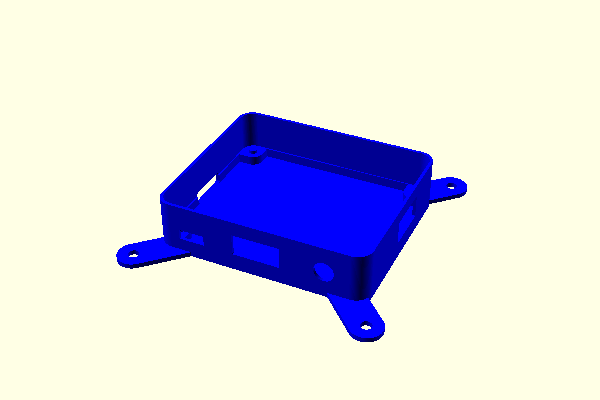
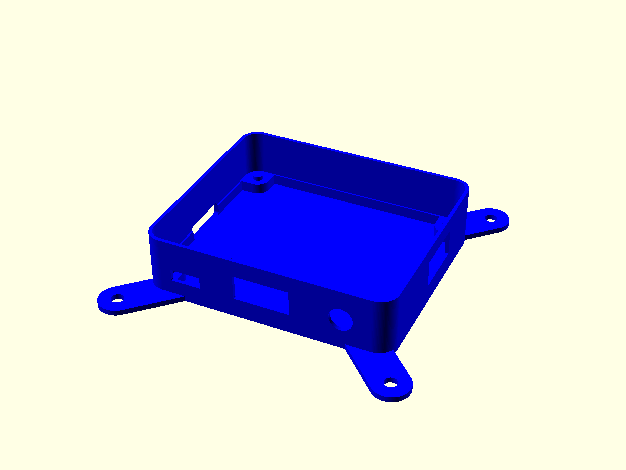
changed image WxH to match thingiverse size

diff --git a/render.py b/render.py
@@ -15,16 +15,16 @@ def render():
 
 	scad = []
 	scad.append(subprocess.Popen(['openscad','raspberry-pi-3-model-a-plus.scad','-o','raspberry-pi-3-model-a-plus.stl','-D', 'part=1']))
-	scad.append(subprocess.Popen(['openscad','raspberry-pi-3-model-a-plus.scad','-o','raspberry-pi-3-model-a-plus.png','-D', 'part=1','--preview','--imgsize=600,400']))
+	scad.append(subprocess.Popen(['openscad','raspberry-pi-3-model-a-plus.scad','-o','raspberry-pi-3-model-a-plus.png','-D', 'part=1','--preview','--imgsize=626,470']))
 
 	scad.append(subprocess.Popen(['openscad','raspberry-pi-3-model-a-plus.scad','-o','case.stl','-D', 'part=2']))
-	scad.append(subprocess.Popen(['openscad','raspberry-pi-3-model-a-plus.scad','-o','case.png','-D', 'part=2','--preview','--imgsize=600,400']))
+	scad.append(subprocess.Popen(['openscad','raspberry-pi-3-model-a-plus.scad','-o','case.png','-D', 'part=2','--preview','--imgsize=626,470']))
 
 	scad.append(subprocess.Popen(['openscad','raspberry-pi-3-model-a-plus.scad','-o','case-vesa-75.stl','-D', 'part=3','-D', 'VESA_SIZE=75']))
-	scad.append(subprocess.Popen(['openscad','raspberry-pi-3-model-a-plus.scad','-o','case-vesa-75.png','-D', 'part=3','-D', 'VESA_SIZE=75','--preview','--imgsize=600,400']))
+	scad.append(subprocess.Popen(['openscad','raspberry-pi-3-model-a-plus.scad','-o','case-vesa-75.png','-D', 'part=3','-D', 'VESA_SIZE=75','--preview','--imgsize=626,470']))
 
 	scad.append(subprocess.Popen(['openscad','raspberry-pi-3-model-a-plus.scad','-o','case-vesa-100.stl','-D', 'part=3','-D', 'VESA_SIZE=100']))
-	scad.append(subprocess.Popen(['openscad','raspberry-pi-3-model-a-plus.scad','-o','case-vesa-100.png','-D', 'part=3','-D', 'VESA_SIZE=100','--preview','--imgsize=600,400']))
+	scad.append(subprocess.Popen(['openscad','raspberry-pi-3-model-a-plus.scad','-o','case-vesa-100.png','-D', 'part=3','-D', 'VESA_SIZE=100','--preview','--imgsize=626,470']))
 
 	# wait for all threads to finish, so we know we're done
 	for p in scad:
